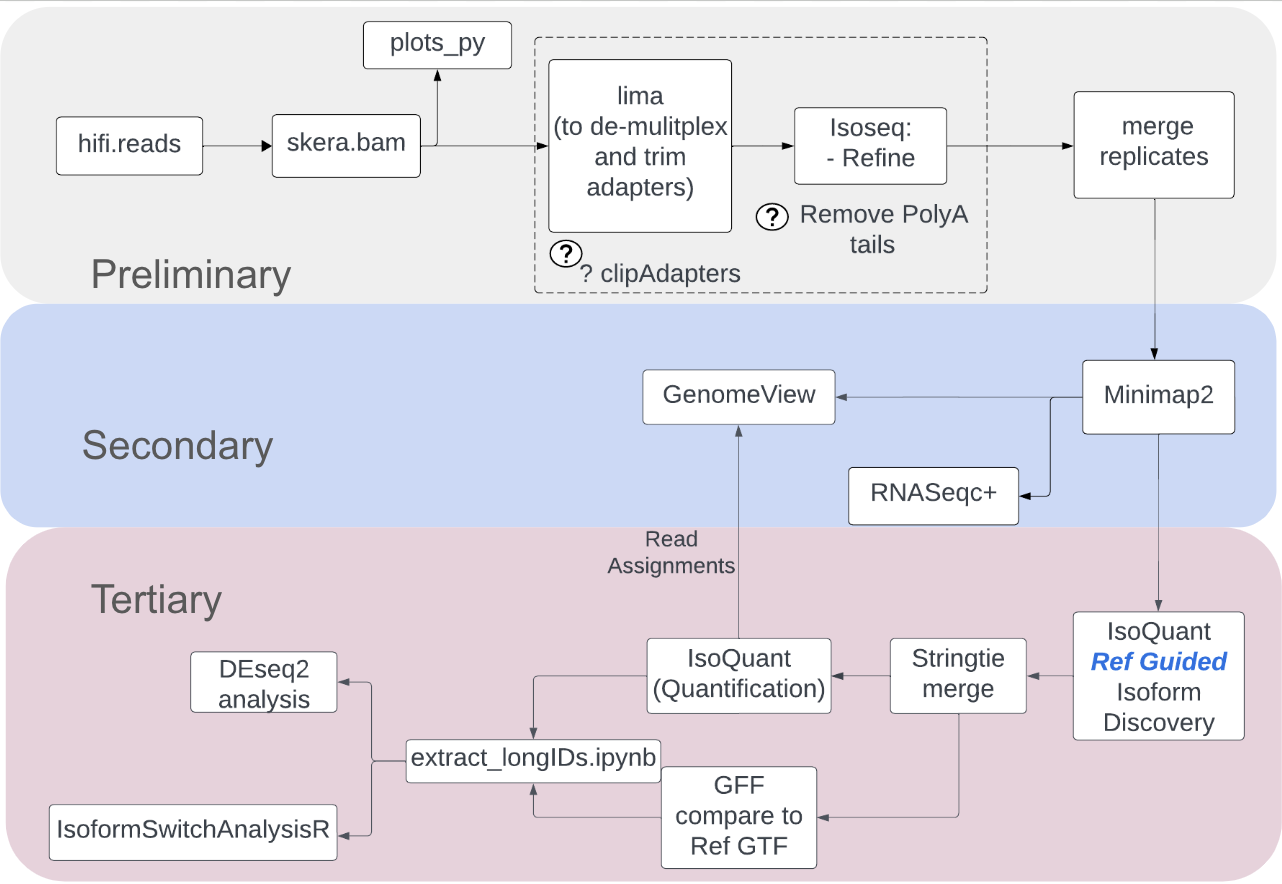
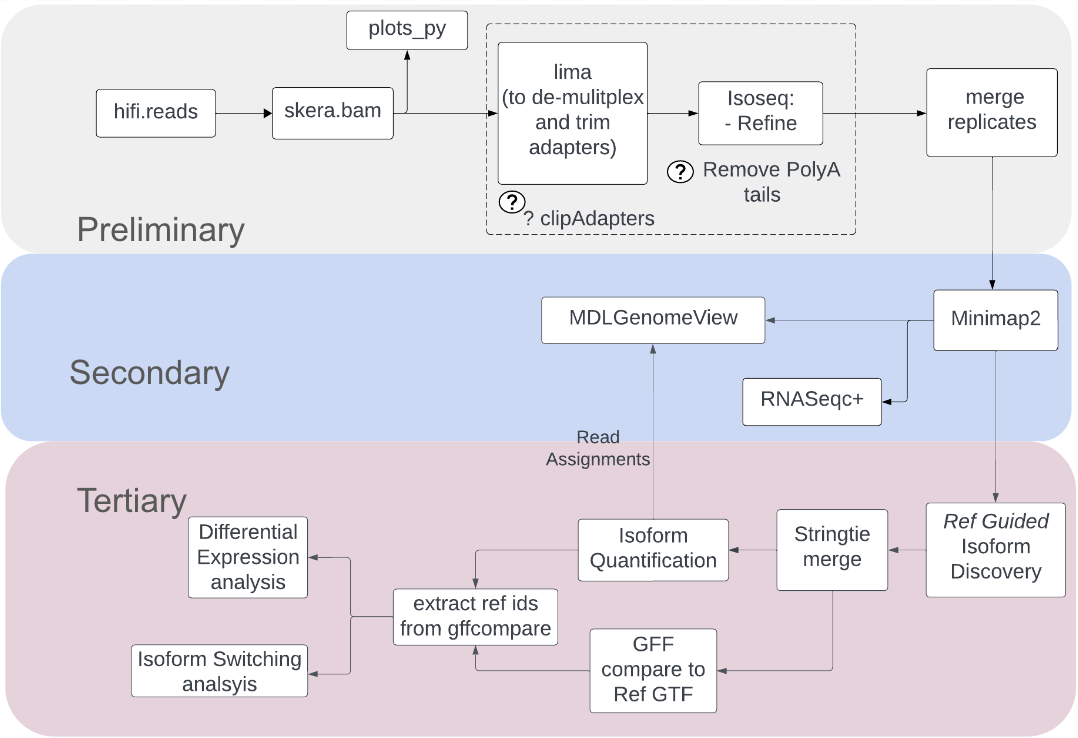
single cell page

diff --git a/_subpages/preprocessing_bulk.rst b/_subpages/preprocessing_bulk.rst
@@ -4,8 +4,30 @@ The analysis workflows for Kinnex products are similar for pre-processing with a
 The preliminary processing mainly leverages various applications from PacBio Analysis Toolkit. 
 Most workflows have WDL wrappers publicly accessible via Dockstore with test data and reference files to follow along placed in public requester-pays Google Storage bucket.
 
-a. Kinnex Full Length 
+Kinnex Full Length 
 =====================
+
+.. image:: ../_images/kinnex_bulk_pb.png
+   :scale: 45%
+   :alt: Novel Methods and R&D
+   :align: right
+
+The PacBio Kinnex™ full-length RNA kit takes total RNA as input and 
+outputs a sequencing-ready library that results in an 8-fold throughput increase 
+compared to typical IsoSeq libraries. 
+
+Complete application note published by PAcbio for Kinnex Full Length can be found here : 
+`Application Note <https://www.pacb.com/wp-content/uploads/Application-note-Kinnex-full-length-RNA-kit-for-isoform-sequencing.pdf>`_
+
+Quick Notes:
+
+• Input 300 ng total RNA, RIN ≥7
+• Generate up to 12-plex barcoded cDNA using (Iso-Seq express 2.0 kit)
+• 2-day Kinnex library preparation using Kinnex full-length RNA kit 
+• Barcoded Kinnex adapters support up to 4-plex multiplexing
+• Total 48 samples per flowcell
+• ~40 million cDNA sequences
+  
 
 Overall Workflow in a nutshell
 ------------------------------
@@ -26,13 +48,11 @@ The pre-processing workflows extract clean s-reads using 3 tools as below which 
 ~~~~~~~~~
 The pbskera workflow, as detailed below, processes raw HiFi reads generated with Sequel2e and Revio Long Read sequencers. The HiFi reads are a current default, and can be plugged in directly into the workflow to get segmented s-reads. 
 
-{workflow details}
-   Workflow on Dockstore : `skera_w_QCplots.wdl <https://dockstore.org/my-workflows/github.com/MethodsDev/masseq_data_processing/pbskera_main>`_
+Workflow configuration for runnning these over cloud platforms supporting Cromwell like Terra can be found here:-
 
-   Workflow definiion on Github: `Kinnex Preliminary Processing <https://github.com/broadinstitute/kinnex-preliminary-processing>`_
-
-   Test Data can be found here (public, requester-pays) : 
-      `gs://mdl-preprocess-refs/test_data/m12345_123456_123456_s1.hifi_reads.bcM0003.bam` 
+      | Dockstore : `skera_w_QCplots.wdl <https://dockstore.org/my-workflows/github.com/MethodsDev/masseq_data_processing/pbskera_main>`_
+      | Github: `Kinnex Preliminary Processing <https://github.com/MethodsDev/masseq_data_processing>`_
+      | Test Data can be found here (public, requester-pays) : `gs://mdl-preprocess-refs/test_data/m12345_123456_123456_s1.hifi_reads.bcM0003.bam` 
 
 
 The direct command executed here is:
@@ -53,9 +73,12 @@ The direct command executed here is:
 ~~~~~~~~~~~~~~~~~~~~~~~~~~~~
 This workflow uses 2 tools to extract clean s-reads from the skera.bam received above. 
 
-   Workflow on Dockstore : `bulk_demux.wdl <https://dockstore.org/workflows/github.com/MethodsDev/masseq_data_processing/bulk_demux>`_
-   Workflow definiion on Github: `Kinnex Preliminary Processing <https://github.com/broadinstitute/kinnex-preliminary-processing>`_
-   Test Data can be found here : `gs://mdl-preprocess-refs/test_data/m12345_123456_123456_s1.hifi_reads.bcM0003.bam` (public, requester-pays)
+Workflow configuration for runnning these over cloud platforms supporting Cromwell like Terra can be found here:-
+   
+      | Dockstore : `bulk_demux.wdl <https://dockstore.org/workflows/github.com/MethodsDev/masseq_data_processing/bulk_demux>`_
+      | Github : `Kinnex Preliminary Processing <https://github.com/MethodsDev/masseq_data_processing>`_
+      | Test Data: `gs://mdl-preprocess-refs/test_data/m12345_123456_123456_s1.hifi_reads.bcM0003.bam` (public, requester-pays)
+
 
 The direct command executed here is:
 
@@ -71,5 +94,4 @@ The direct command executed here is:
 .. csv-table:: lima
    :file: ../_subpages/tables/lima_refine_bulk.csv
    :header-rows: 1
-
 

diff --git a/_subpages/preprocessing_sc.rst b/_subpages/preprocessing_sc.rst
@@ -1,11 +1,81 @@
-b. Kinnex Single Cell
+Kinnex Single Cell
 =====================
+.. image:: ../_images/kinnex_sc_pb.png
+    :scale: 45%
+    :alt: Novel Methods and R&D
+    :align: right
 
-Kinnex Single Cell wOrkflow overview:
+The PacBio Kinnex™ single-cell RNA kit takes as input singlecell cDNA and outputs a sequencing-ready library that
+results in a 16-fold throughput increase compared to
+regular single-cell Iso-Seq® libraries.
+
+Complete application note published by Pacbio can be found here:
+`Application note <https://www.pacb.com/wp-content/uploads/Application-note-Kinnex-single-cell-RNA-kit-for-single-cell-isoform-sequencing.pdf>`_
+
+Quick notes:
+
+• 10x Chromium Single Cell 3’ kit (v3.1) and 5’ kit (v2)
+• 15–75 ng cDNA input
+• 3,000 to 10,000 target cell recovery
+• 2-day Kinnex library preparation using Kinnex single-cell RNA kit
+• Barcoded Kinnex adapters support up to 4-plex multiplexing
+• ~80MN reads
+
+
+
+Kinnex Single Cell workflow overview:
 -------------------------------------
+.. figure:: ../_images/sc_workflow.png
+   :alt: Novel Methods and R&D
+   :align: center
+
+
+Preliminary analysis
+--------------------
+The pre-processing workflows extract clean s-reads using tools below which can then be provided to the alignment applications and other downstream workflows similar to those used to analyze Isoseq data.
+High level pre-processing is dopted from `Pacbio's CLI workflow <https://isoseq.how/umi/cli-workflow.html>`_
+
+   - `skera <https://skera.how/>`_ for de-concatenating the MAS arrays into individual cDNA molecules and generate segmented reads (s-reads),
+   - `lima <https://lima.how/>`_ for removal of primers and identification of barcodes and orienting sequences in 5’ → 3’ orientation.
+   - `isoseq tag <https://isoseq.how/umi/umi-barcode-design.html#umibarcode-designs>`_  to clip tags (cell barcode, UMI, Gs). Supports design presets and custom experimental designs.
+   - `isoseq refine <https://isoseq.how/getting-started.html>`_ for trimming poly(A) tails and extracting Full length non-concatemer reads (FLNC) from s-reads.
+   - `isoseq correct <https://isoseq.how/umi/isoseq-correct.html>`_ for correcting errors in cell barcodes, the total number of usable reads increased (typically ~5%)
+
+
+`pbskera`
+~~~~~~~~~
+The pbskera workflow, as detailed below, processes raw HiFi reads generated with Sequel2e and Revio Long Read sequencers. The HiFi reads are a current default, and can be plugged in directly into the workflow to get segmented s-reads. 
+
+Workflow configuration for runnning these over cloud platforms supporting Cromwell like Terra can be found here:-
+
+      | Dockstore : `skera_w_QCplots.wdl <https://dockstore.org/my-workflows/github.com/MethodsDev/masseq_data_processing/pbskera_main>`_
+      | Github: `Kinnex Preliminary Processing <https://github.com/MethodsDev/masseq_data_processing>`_
+      | Test Data can be found here (public, requester-pays) : `gs://mdl-preprocess-refs/test_data/m12345_123456_123456_s1.hifi_reads.bcM0003.bam` 
+
+
+The direct command executed here is:
+
+.. code:: bash
+   :number-lines: 
+
+       skera split –j 16 reads.hifi.bam mas16_adapters.fasta reads.skera.bam
+
+**Input arguments for pbskera_main**
+
+.. csv-table:: skera
+   :file: ../_subpages/tables/skera_bulk.csv
+   :header-rows: 1
+
+`pblima  + isoseq tag + isoseq refine + isoseq correct`
+~~~~~~~~~~~~~~~~~~~~~~~~~~~~~~~~~~~~~~~~~~~~~~~~~~~~~~~
+
+Single cell Vignettes:
+~~~~~~~~~~~~~~~~~~~~~~
+All vignettes developed my MDL:  `https://github.com/MethodsDev/mdl-vignettes/tree/main/single_cell`_
+
 Option1 for sub1:
-~~~~~~~~~~~~~~~~
+~~~~~~~~~~~~~~~~~
 Option2 for sub1:
-~~~~~~~~~~~~~~~~
+~~~~~~~~~~~~~~~~~
 Option3 for sub1:
-~~~~~~~~~~~~~~~~
+~~~~~~~~~~~~~~~~~

diff --git a/_subpages/pb_guidelines.rst b/_subpages/pb_guidelines.rst
@@ -1,14 +1,12 @@
 Best practices and Resources for Kinnex:
 ++++++++++++++++++++++++++++++++++++++++
 
-Kinnex Full Length Wet-Lab protocol:
-====================================
+a. Kinnex Full Length Wet-Lab protocol:
+=======================================
 
-SMRT Link v13 document
-----------------------
+PacBio Documents and Resources
+-------------------------------
 
-Release documentation
-~~~~~~~~~~~~~~~~~~~~~
 `Preparing Single Cell kit <https://www.pacb.com/wp-content/uploads/Procedure-checklist-Preparing-Kinnex-libraries-using-Kinnex-single-cell-RNA-kit.pdf>`
 `SMRT Link v13.0 release notes <https://www.pacb.com/wp-content/uploads/SMRT-Link-Release-Notes-v13.0.pdf>`
 
@@ -21,5 +19,20 @@ SMRT Tools v13.0 reference guide
 SMRT Link v13.0 API use cases
 SMRT Link Python API reference v13.0
 
-Kinnex Single Cell Wet-Lab protocol:
-====================================
+- `Technical Overview <https://pacbio.cn/wp-content/uploads/Technical-overview-Kinnex-kits-for-single-cell-RNA-full-length-RNA-and-16S-rRNA-sequencing.pdf>`_ for all Kinnex kits 
+
+Special Notes from MDL:
+~~~~~~~~~~~~~~~~~~~~~~~
+
+
+b. Kinnex Single Cell Wet-Lab protocol:
+=======================================
+
+PacBio Documents and Resources
+-------------------------------
+
+`Checklist for preparing Kinnex libraries using Kinnex-single-cell-RNA kit: 
+<https://www.pacb.com/wp-content/uploads/Procedure-checklist-Preparing-Kinnex-libraries-using-Kinnex-single-cell-RNA-kit.pdf>`_
+
+Special Notes from MDL:
+~~~~~~~~~~~~~~~~~~~~~~~

diff --git a/index.rst b/index.rst
@@ -37,7 +37,7 @@ to explore Kinnex datatypes.
       ``Pre-processing workflows`` to extract clean s-reads
 
     .. grid-item-card::  Kinnex Single Cell
-      :link: _subpages/preprocessing_bulk
+      :link: _subpages/preprocessing_sc
       :link-type: doc
 
       Single-cell ``preliminary processing`` workflows
@@ -51,6 +51,7 @@ to explore Kinnex datatypes.
 
    _subpages/pb_guidelines
    _subpages/preprocessing_bulk
+   _subpages/preprocessing_sc
    _subpages/readQC
    _subpages/secondary_processing
    _subpages/tertiary_processing
